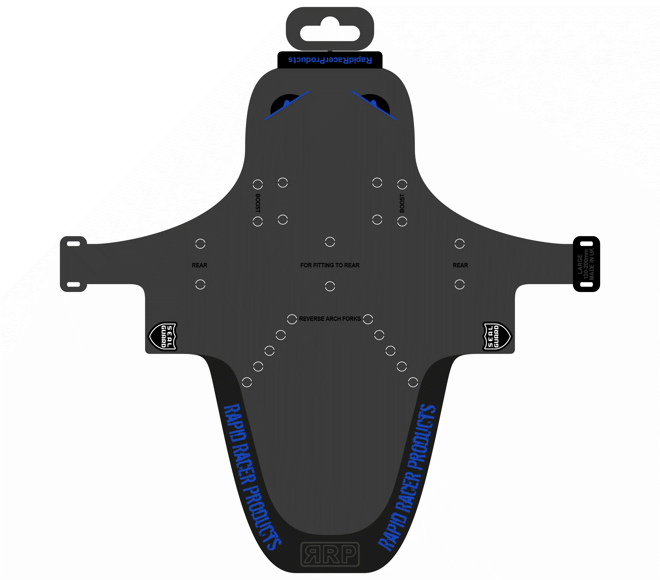
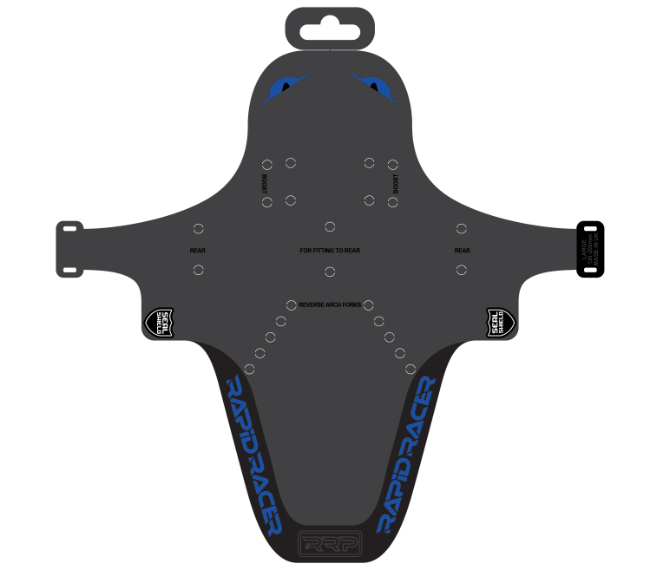
Updates to the EnduroGuard image gallery

diff --git a/src/templates/pages/products/mudguards/enduroguard.html b/src/templates/pages/products/mudguards/enduroguard.html
@@ -9,7 +9,7 @@ pageCss: product
 productName: EnduroGuard
 productUrl: mudguards/enduroguard
 uk: true
-productVersion: v4
+productVersion: v4.2
 productLogo: enduroguard
 productOverview: [
   "Our new ENDUROGUARD v4 mudguard is an improved design which is much better at coping with the bigger wheel sizes, we believe our mudguard is the best designed offering by far the best protection of its type for your eyes and fork seals. We have also added new graphics and colourways to our range.",
@@ -158,6 +158,16 @@ productImages: [
     imageUrl: mudguards/enduroguard/gallery/purple,
     imageAlt: EnduroGuard,
     id: purple
+  },
+  {
+    imageUrl: mudguards/enduroguard/gallery/bike1,
+    imageAlt: EnduroGuard,
+    id: bike1
+  },
+  {
+    imageUrl: mudguards/enduroguard/gallery/bike2,
+    imageAlt: EnduroGuard,
+    id: bike2
   }
 ]
 ukDistributor: [
